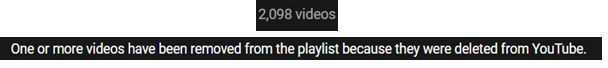
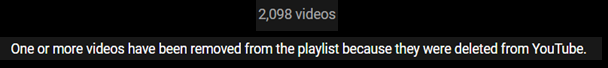
Updated readme.md image to black background

diff --git a/README.md b/README.md
@@ -1,4 +1,4 @@
-# Youtube playlist title scraper + deleted/prviate video finder.
+# Youtube playlist title scraper + deleted/private video finder.
 
 ## Intro
 
